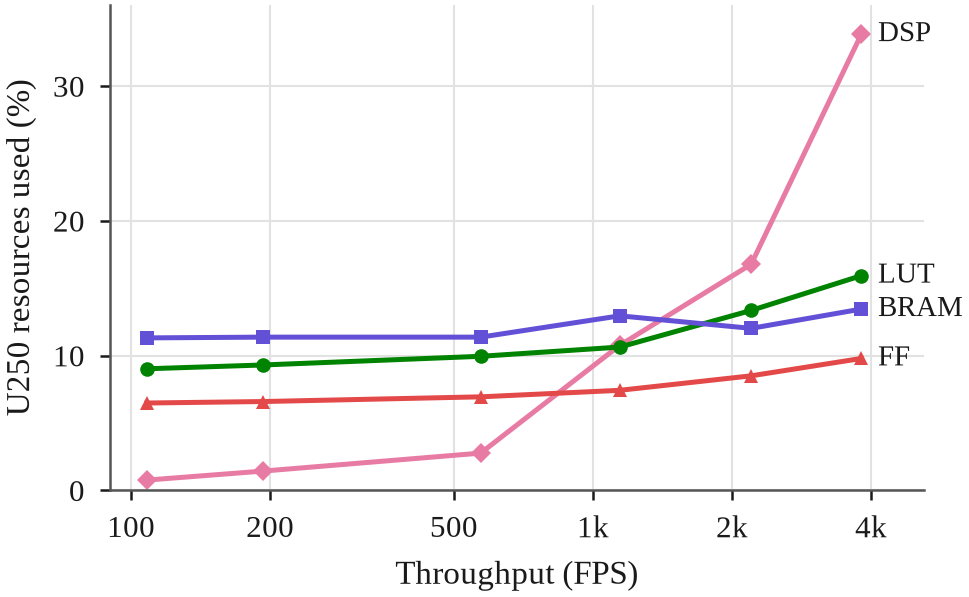
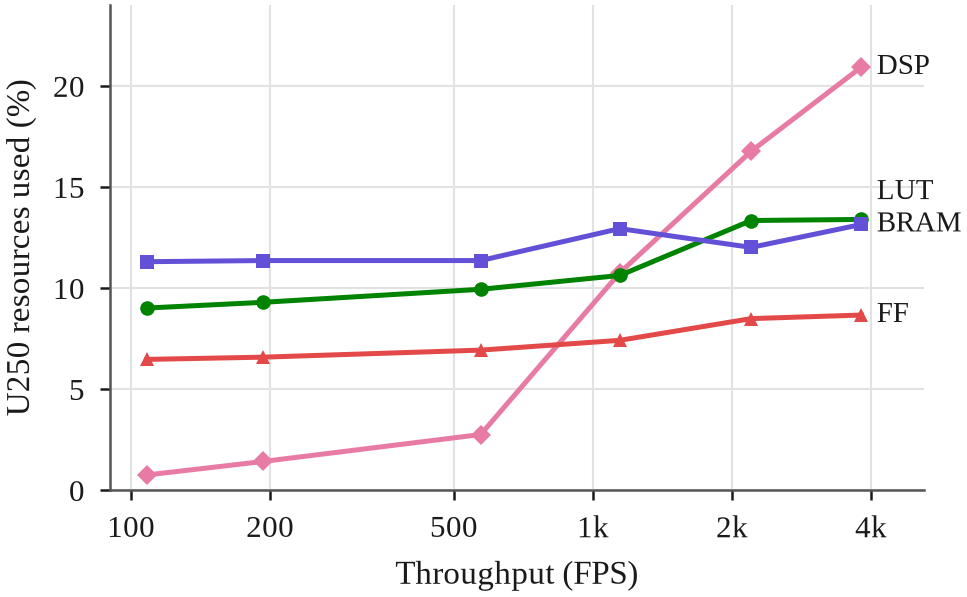
Slim 160 area curve: minimum-area build as the 3,810 FPS point; end labels kept apart

diff --git a/scripts/make_figures.py b/scripts/make_figures.py
@@ -309,25 +309,39 @@ def fig_u250_accuracy_vs_area(builds, runs, out):
 
 
 def fig_u250_slim_area(builds, out):
-    """Resource use of Slim 160 6-bit across throughput targets (stock FINN folding)."""
-    pts = sorted([b for b in builds if b["architecture"] == "test_resnet_slim128x64" and b["precision"] == "6w6a"
-                  and b["resolution"] == 160 and b["flow"] == "stock" and b["target"].endswith("fps")],
-                 key=lambda b: b["throughput_fps"])
-    check(len(pts) == 6, f"Expected six stock Slim 160 6-bit builds, found {len(pts)}")
+    """Resource use of Slim 160 6-bit across throughput targets.
+
+    Below the throughput limit stock folding already meets each target, so relaxation and the SWU patch
+    would not change those builds; at the limit the minimum-area build replaces the over-provisioned
+    stock 5000fps one.
+    """
+    slim160 = [b for b in builds if b["architecture"] == "test_resnet_slim128x64" and b["precision"] == "6w6a"
+               and b["resolution"] == 160 and b["target"].endswith("fps")]
+    pts = sorted([b for b in slim160 if b["flow"] == "relaxed_swu_patch"
+                  or (b["flow"] == "stock" and b["target"] != "5000fps")], key=lambda b: b["throughput_fps"])
+    check(len(pts) == 6, f"Expected six Slim 160 6-bit builds, found {len(pts)}")
     styles = {"DSP": ("#e87ba4", "D", "-"), "LUT": ("#008300", "o", "-"),
               "BRAM": ("#6250d6", "s", "-"), "FF": ("#e34948", "^", "-")}
     fig, ax = plt.subplots(figsize=(COLUMN, 2.1))
     xs = [b["throughput_fps"] for b in pts]
+    ends = {}
     for resource, (color, marker, line) in styles.items():
         ys = [b[f"{resource}_pct"] for b in pts]
         ax.plot(xs, ys, color=color, linestyle=line, linewidth=1.2, marker=marker, markersize=3.5,
                 markerfacecolor=color, markeredgewidth=0)
-        ax.annotate(resource, (xs[-1], ys[-1]), xytext=(4, 0), textcoords="offset points", va="center", fontsize=7)
+        ends[resource] = ys[-1]
+    # End labels, nudged apart where lines finish close together (min gap in % of the device).
+    placed = []
+    for resource, y in sorted(ends.items(), key=lambda item: item[1]):
+        y_label = max(y, placed[-1] + 1.6) if placed else y
+        placed.append(y_label)
+        ax.annotate(resource, (xs[-1], y), xytext=(xs[-1] * 1.08, y_label), textcoords="data",
+                    va="center", fontsize=7)
     ax.set_xscale("log")
     ax.set_xticks([100, 200, 500, 1000, 2000, 4000], ["100", "200", "500", "1k", "2k", "4k"])
     ax.minorticks_off()
     ax.set_xlim(90, 5200)
-    ax.set_ylim(0, 36)
+    ax.set_ylim(0, 24)
     ax.set_xlabel("Throughput (FPS)")
     ax.set_ylabel("U250 resources used (%)")
     ax.grid(color=GRID, linewidth=0.5, zorder=0)

diff --git a/analysis/figures/README.md b/analysis/figures/README.md
@@ -49,9 +49,12 @@ narrowed to 128 and 64 channels (218k parameters). "8-bit"/"6-bit"/"4-bit" means
 > at all input sizes.
 
 **`u250_slim160_6bit_area_vs_throughput`**
-> U250 resources (post-synthesis, % of the device) used by Slim, 160 px, 6-bit, built for
-> increasing throughput with stock FINN folding. From 108 to 3,810 FPS (35×) LUTs grow 1.8× and DSPs 45×;
-> most LUT, FF and BRAM use is independent of throughput. BRAM counts an 18K block as half a 36K block.
+> U250 resources (post-synthesis, % of the device) used by Slim, 160 px, 6-bit, built for increasing
+> throughput. From 108 to 3,810 FPS (35×) LUTs grow 1.5× and DSPs 28×; most LUT, FF and BRAM use is
+> independent of throughput. The 3,810 FPS point is the minimum-area build; the lower points are stock
+> FINN builds for targets of 100–2,000 FPS, which they meet (the 200 FPS target reaches 193 FPS), so
+> relaxation would not change them. The stock 5,000 FPS build reaches the same 3,810 FPS with 34% of
+> the DSPs instead of 21%. BRAM counts an 18K block as half a 36K block.
 
 ## U250 resources of the minimum-area builds
 
